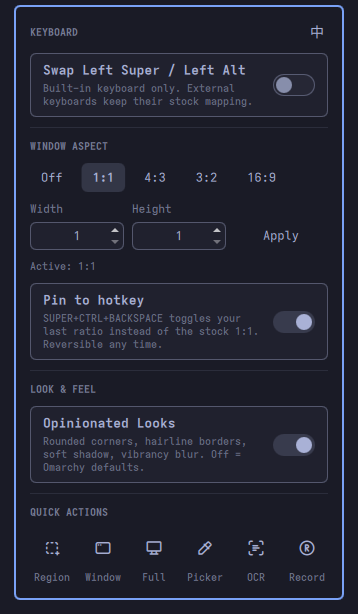
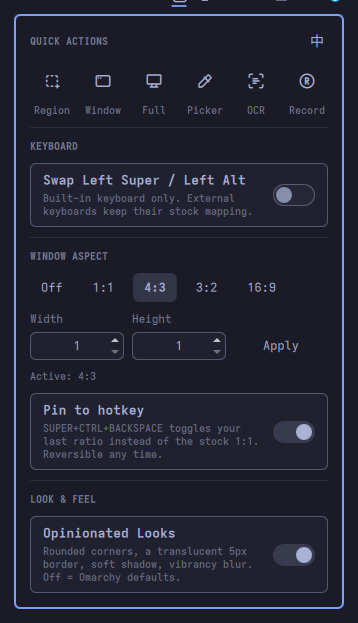
panel: quick actions section first, zh copy in 書面語, honest looks_desc
- move QUICK ACTIONS above KEYBOARD (lang button stays top-right)
- zh strings: 嘅/唔係/揀/成個/闊 → standard written Chinese (rule recorded in AGENTS.md)
- looks_desc en/zh/README: 'hairline borders' → translucent 5px border (matches lookLua)
- regenerate panel.png (new layout) + preview.png cover

diff --git a/ToolPanel.qml b/ToolPanel.qml
@@ -8,9 +8,9 @@ import qs.Ui
 // so the stock SUPER+CTRL+BACKSPACE toggle and CLI calls are reflected here
 // too. Every user-facing string resolves through tool.tr(), which makes the
 // top-right 中/EN button re-render the whole panel. Four sections in one
-// column: keyboard swap, window aspect (presets, custom, pin), opinionated
-// looks, and stateless quick capture actions (the panel closes on fire so
-// selection overlays get a clear screen).
+// column, quick actions first: stateless quick capture actions (the panel
+// closes on fire so selection overlays get a clear screen), then keyboard
+// swap, window aspect (presets, custom, pin), and opinionated looks.
 Panel {
   id: root
   moduleName: "glasschan.oma-swiss"
@@ -46,13 +46,13 @@ Panel {
         // glyph shows the language you get on click.
         Item {
           width: parent.width
-          height: Math.max(keyboardHeader.implicitHeight, langButton.size)
+          height: Math.max(actionsHeader.implicitHeight, langButton.size)
 
           PanelSectionHeader {
-            id: keyboardHeader
+            id: actionsHeader
             anchors.left: parent.left
             anchors.verticalCenter: parent.verticalCenter
-            text: root.tool ? root.tool.tr("sec_keyboard") : ""
+            text: root.tool ? root.tool.tr("sec_actions") : ""
           }
 
           PanelActionButton {
@@ -65,12 +65,54 @@ Panel {
           }
         }
 
+        // Six equal cells: icon button over a caption label. Stateless
+        // launchers — the tool owns the command list, this only renders it.
+        Row {
+          id: actionsRow
+          width: parent.width
+          spacing: Style.spacing.controlGap
+          readonly property real cellW: (width - (quickActions.count - 1) * spacing) / Math.max(1, quickActions.count)
+
+          Repeater {
+            id: quickActions
+            model: root.tool ? root.tool.quickActions : []
+
+            delegate: Column {
+              required property var modelData
+              width: actionsRow.cellW
+              spacing: Style.space(4)
+
+              PanelActionButton {
+                iconText: modelData.icon
+                fontFamily: root.tool ? root.tool.iconFont : ""
+                tooltipText: root.tool ? root.tool.tr(modelData.tip) : ""
+                size: Style.space(38)
+                fontSize: Style.font.iconLarge
+                anchors.horizontalCenter: parent.horizontalCenter
+                onClicked: if (root.tool) root.tool.runQuickAction(modelData.id)
+              }
+
+              Text {
+                text: root.tool ? root.tool.tr(modelData.label) : ""
+                color: Qt.darker(root.barForeground, 1.4)
+                font.family: Style.font.family
+                font.pixelSize: Style.font.caption
+                anchors.horizontalCenter: parent.horizontalCenter
+              }
+            }
+          }
+        }
+
+        PanelSeparator {}
+
+        PanelSectionHeader { text: root.tool ? root.tool.tr("sec_keyboard") : "" }
+
         Toggle {
           width: parent.width
           label: root.tool ? root.tool.tr("swap_label") : ""
           description: root.tool ? root.tool.tr("swap_desc") : ""
           checked: root.tool && root.tool.swapped
-          onClicked: if (root.tool) root.tool.toggleSwap()
+          onClicked: if (root.tool) root.toggleSwap()
         }
 
         PanelSeparator {}
@@ -185,47 +227,6 @@ Panel {
           onClicked: if (root.tool) root.tool.setLook(!root.tool.lookOn)
         }
 
-        PanelSeparator {}
-
-        PanelSectionHeader { text: root.tool ? root.tool.tr("sec_actions") : "" }
-
-        // Six equal cells: icon button over a caption label. Stateless
-        // launchers — the tool owns the command list, this only renders it.
-        Row {
-          id: actionsRow
-          width: parent.width
-          spacing: Style.spacing.controlGap
-          readonly property real cellW: (width - (quickActions.count - 1) * spacing) / Math.max(1, quickActions.count)
-
-          Repeater {
-            id: quickActions
-            model: root.tool ? root.tool.quickActions : []
-
-            delegate: Column {
-              required property var modelData
-              width: actionsRow.cellW
-              spacing: Style.space(4)
-
-              PanelActionButton {
-                iconText: modelData.icon
-                fontFamily: root.tool ? root.tool.iconFont : ""
-                tooltipText: root.tool ? root.tool.tr(modelData.tip) : ""
-                size: Style.space(38)
-                fontSize: Style.font.iconLarge
-                anchors.horizontalCenter: parent.horizontalCenter
-                onClicked: if (root.tool) root.tool.runQuickAction(modelData.id)
-              }
-
-              Text {
-                text: root.tool ? root.tool.tr(modelData.label) : ""
-                color: Qt.darker(root.barForeground, 1.4)
-                font.family: Style.font.family
-                font.pixelSize: Style.font.caption
-                anchors.horizontalCenter: parent.horizontalCenter
-              }
-            }
-          }
-        }
       }
     }
   }

diff --git a/BarWidget.qml b/BarWidget.qml
@@ -254,7 +254,7 @@ BarWidget {
       pin_label: "Pin to hotkey",
       pin_desc: "SUPER+CTRL+BACKSPACE toggles your last ratio instead of the stock 1:1. Reversible any time.",
       looks_label: "Opinionated Looks",
-      looks_desc: "Rounded corners, hairline borders, soft shadow, vibrancy blur. Off = Omarchy defaults.",
+      looks_desc: "Rounded corners, a translucent 5px border, soft shadow, vibrancy blur. Off = Omarchy defaults.",
       lang_tip: "切換介面語言 · Switch UI language",
       qa_region_l: "Region", qa_region_t: "Screenshot — select a region",
       qa_window_l: "Window", qa_window_t: "Screenshot — pick a window",
@@ -271,16 +271,16 @@ BarWidget {
       swap_label: "左 Super／左 Alt 互換",
       swap_desc: "只影響內置鍵盤；外接鍵盤保持原本設定。",
       off: "關",
-      width: "闊", height: "高", apply: "套用",
+      width: "寬", height: "高", apply: "套用",
       active: "目前", custom: "自訂", offState: "關閉",
       pin_label: "固定快捷鍵",
-      pin_desc: "SUPER+CTRL+BACKSPACE 會改為切換你上次嘅比例（而唔係預設 1:1），隨時可以還原。",
+      pin_desc: "SUPER+CTRL+BACKSPACE 會改為切換你上次設定的比例（而非預設 1:1），可隨時還原。",
       looks_label: "Opinionated Looks",
-      looks_desc: "圓角、髮絲邊框、柔和陰影、毛玻璃。關閉即還原 Omarchy 預設。",
+      looks_desc: "圓角、5px 半透明邊框、柔和陰影、毛玻璃。關閉即還原 Omarchy 預設。",
       lang_tip: "切換介面語言 · Switch UI language",
       qa_region_l: "區域", qa_region_t: "截圖 — 選取區域",
-      qa_window_l: "視窗", qa_window_t: "截圖 — 揀選視窗",
-      qa_full_l: "全螢幕", qa_full_t: "截圖 — 成個螢幕",
+      qa_window_l: "視窗", qa_window_t: "截圖 — 選取視窗",
+      qa_full_l: "全螢幕", qa_full_t: "截圖 — 整個螢幕",
       qa_pick_l: "取色", qa_pick_t: "螢幕取色器",
       qa_ocr_l: "OCR", qa_ocr_t: "OCR 文字辨識（中英）",
       qa_record_l: "錄影", qa_record_t: "開始／停止螢幕錄影"

diff --git a/AGENTS.md b/AGENTS.md
@@ -98,7 +98,7 @@ When the user requests a durable behavior change, record it here or in the relev
   - Aspect: `~/.local/state/omarchy/toggles/hypr/single-window-aspect-ratio.lua` — written directly with the chosen ratio; never call `omarchy-hyprland-toggle` for it (its "on" copies stock 1:1).
   - Looks: `~/.local/state/omarchy/toggles/hypr/opinionated-looks.lua` — exists = Opinionated Looks on. Content is static-only `hl.config` (rounding/borders/shadow/blur; `lookLua` in BarWidget.qml carries the user's live tuning: border 5, rounding 6). Animations are deliberately NOT overridden — a former macSpring `hl.curve`/`hl.animation` set was removed on 2026-08-24 as indistinguishable from stock; do not reintroduce animation overrides without the user asking. A `setup-looknfeel.sh`-style marker block in `~/.config/hypr/looknfeel.lua` must not coexist with this flag: with the flag absent the block would keep the look applied and break the off state. Ownership migrated to the flag file on 2026-08-24.
 - Custom-ratio memory: `~/.local/state/glasschan.oma-swiss/last-aspect`, plain `"w h"` text — the LAST ratio set (preset or custom); drives panel prefill and `aspectToggle`.
-- UI language: `~/.local/state/glasschan.oma-swiss/lang`, `"en"` or `"zh"`. All panel strings live in the `strings` table in BarWidget.qml and resolve through `tr()` — the panel stays a pure view; adding a string means adding it to every language block.
+- UI language: `~/.local/state/glasschan.oma-swiss/lang`, `"en"` or `"zh"`. All panel strings live in the `strings` table in BarWidget.qml and resolve through `tr()` — the panel stays a pure view; adding a string means adding it to every language block. zh copy must be standard written Chinese (書面語), never Cantonese colloquialisms (嘅／唔係／揀／成個…) — user rule since 2026-08-24.
 - Hotkey pin: `~/.local/state/omarchy/toggles/hypr/oma-swiss-hotkey.lua` — exists = pinned. Its static Lua does `hl.unbind("SUPER + CTRL + BACKSPACE")` + `o.bind(..., "omarchy-shell glasschan.oma-swiss aspectToggle")`; toggles load after user bindings, so the pinned bind wins while the file exists and removal restores whatever was bound before (stock or the user's own override). The write and the activating `hyprctl reload` MUST stay one shell command (FileView.setText is async — a separate reload Process would race).
 - IPC surface (CLI = `omarchy-shell glasschan.oma-swiss <fn>`, exact function names, no hyphen mapping): `toggle` (swap), `aspect w h`, `aspectOff`, `aspectToggle`, `pin`, `look`, `lang`, `panel`, `open`, `close`, `status`. Quick actions have no IPC — they are panel buttons only (they close the panel on fire).
 - Bar interactions: left-click opens the popup, right-click toggles the swap directly.

diff --git a/README.md b/README.md
@@ -30,9 +30,9 @@ that costs nothing while you're not using it.
   3:2, and 16:9 presets, or any custom `W:H` up to 64. Your ratio survives
   reloads and logins, and the stock `SUPER+CTRL+BACKSPACE` binding works
   alongside it.
-- **Opinionated Looks** — rounded corners, hairline borders, soft shadows,
-  and vibrancy blur in one toggle. Switch it off and you're back to stock
-  Omarchy, exactly.
+- **Opinionated Looks** — rounded corners, a translucent 5px border, soft
+  shadows, and vibrancy blur in one toggle. Switch it off and you're back to
+  stock Omarchy, exactly.
 - **Quick capture** — region / window / fullscreen screenshots, a color
   picker, OCR (English + 中文), and screen recording start/stop, one click
   each. Capture overlays need a clear screen, so the panel closes as the
